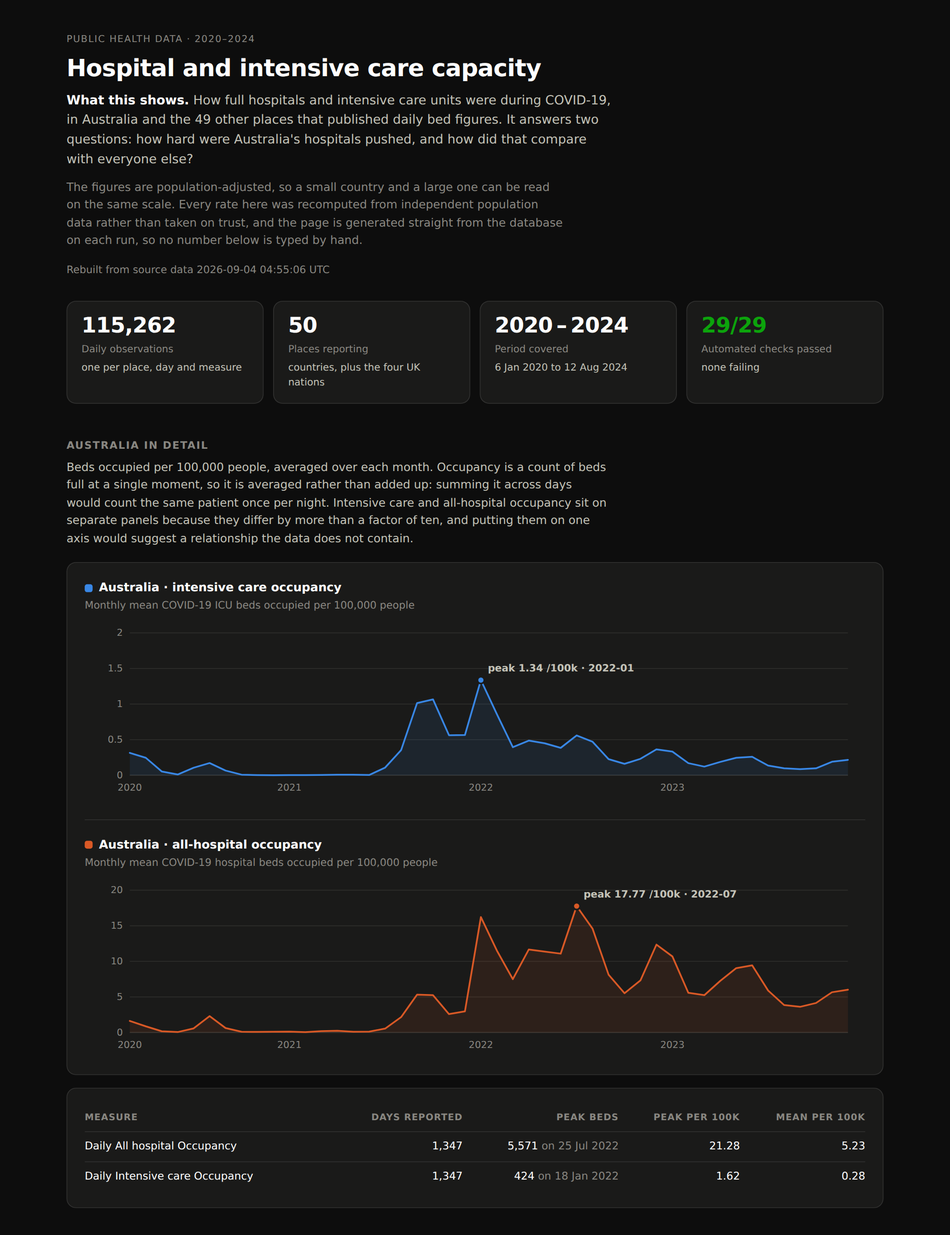
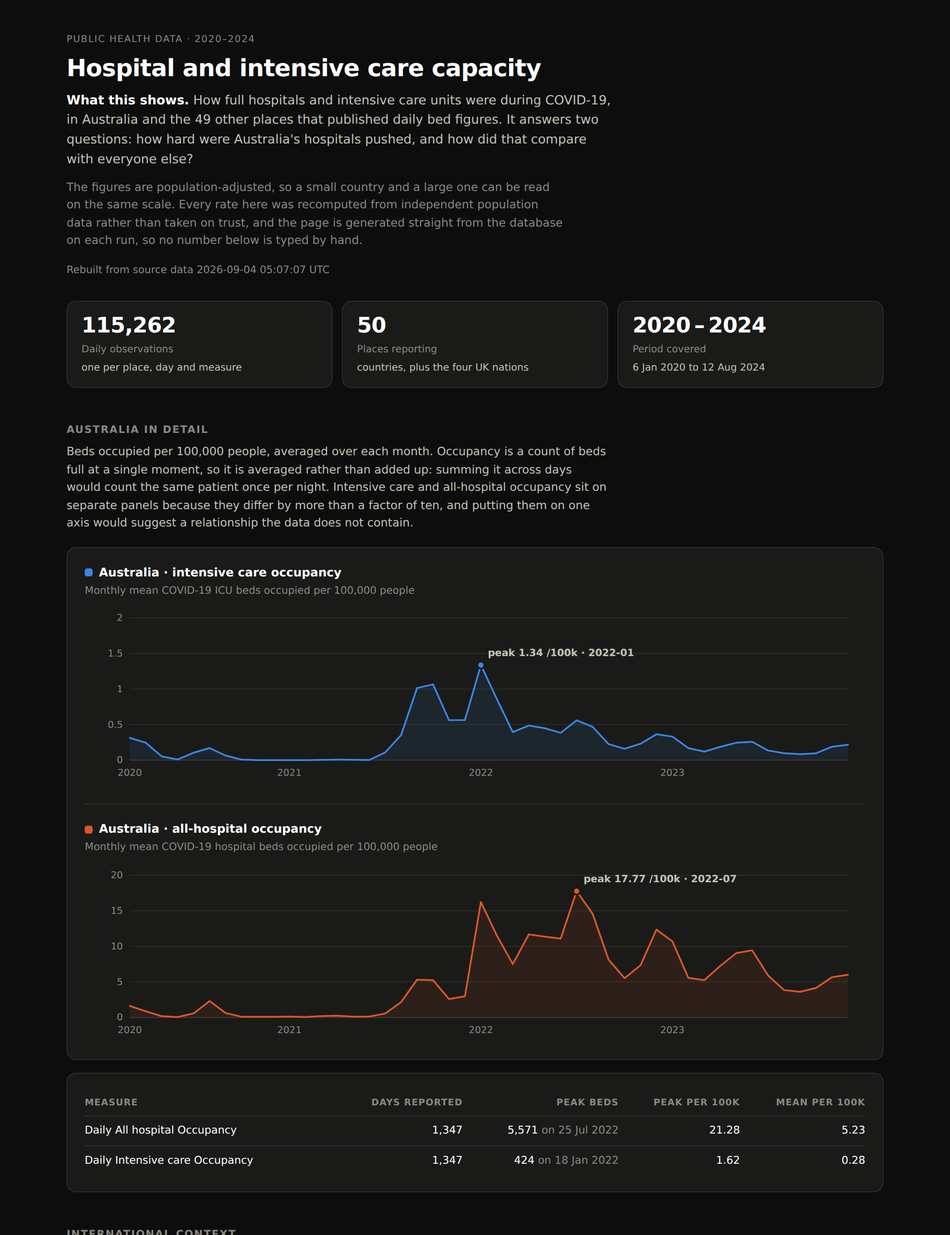
Trim the dashboard to the analysis
Removed the "How this was built" section and the checks-passed stat tile. The
page now runs: what this shows, Australia in detail, international context,
checking the numbers. It reads as an analysis rather than a build report.

Nothing was lost, only relocated. The warehouse layout is documented in
docs/architecture.md and docs/data_dictionary.md, and the 29 check results are
still written to meta_quality_results in the database on every run and still
gate publication. They were build detail on a page meant for a reader.

Also removed what the deletion orphaned: the model and check table builders,
their queries, the unused tile "good" variant, and the .pill.pass and
.tile-value.is-good rules. The meta description no longer advertises a quality
section the page does not have.

Replaced test_dashboard_surfaces_the_quality_result, which was passing on a
substring of the meta description and a CSS class name rather than on anything
a reader could see. The new test pins the page to exactly three sections and
fails if the removed ones return.

126 tests pass, lint and format clean, 29/29 data quality checks pass.

Claude-Session: https://claude.ai/code/session_014GgdsZjjVrn6aL7tembDrG

diff --git a/docs/index.html b/docs/index.html
@@ -3,7 +3,7 @@
 <head>
 <meta charset="utf-8">
 <meta name="viewport" content="width=device-width, initial-scale=1">
-<meta name="description" content="Star-schema warehouse of hospital and ICU capacity built from three public datasets, with reconciliation and quality tests.">
+<meta name="description" content="How full hospitals and intensive care units were during COVID-19, in Australia and 49 other reporting places.">
 <style>img{max-width:100%}[hidden]{display:none!important}</style>
 <title>Hospital Capacity Warehouse</title>
 <style>
@@ -112,7 +112,6 @@ h2 {
 .tile-value { font-size: 27px; font-weight: 640; letter-spacing: -0.02em; line-height: 1.1; }
 .tile-label { font-size: 12.5px; color: var(--text-muted); margin-top: 5px; }
 .tile-note { font-size: 12.5px; color: var(--text-secondary); margin-top: 3px; }
-.tile-value.is-good { color: var(--good); }
 
 .panel { margin: 0; }
 .panel + .panel { margin-top: 22px; padding-top: 20px; border-top: 1px solid var(--border); }
@@ -161,7 +160,6 @@ code, .mono { font-family: ui-monospace, SFMono-Regular, Menlo, Consolas, monosp
   font-size: 12px; font-weight: 600; padding: 2px 9px; border-radius: 999px;
   border: 1px solid var(--border); white-space: nowrap;
 }
-.pill.pass { color: var(--good); }
 .pill.warn { color: var(--warning); }
 .pill.fail { color: var(--critical); }
 .pill::before { content: ""; width: 7px; height: 7px; border-radius: 50%; background: currentColor; }
@@ -173,27 +171,7 @@ code, .mono { font-family: ui-monospace, SFMono-Regular, Menlo, Consolas, monosp
 .note b { color: var(--text-primary); }
 .note + .note { border-left-color: var(--axis); }
 
-.quality-summary { display: flex; flex-wrap: wrap; align-items: baseline; gap: 10px 14px; }
-.quality-note { color: var(--text-secondary); font-size: 14px; max-width: 68ch; }
 
-details { margin-top: 16px; border-top: 1px solid var(--border); padding-top: 12px; }
-details summary {
-  cursor: pointer; font-size: 13px; font-weight: 600; color: var(--text-secondary);
-  list-style: none; display: inline-flex; align-items: center; gap: 7px;
-  padding: 4px 2px; border-radius: 6px;
-}
-details summary::-webkit-details-marker { display: none; }
-details summary::before {
-  content: "▸"; font-size: 11px; color: var(--text-muted);
-  transition: transform 0.15s ease;
-}
-details[open] summary::before { transform: rotate(90deg); }
-details summary:hover { color: var(--text-primary); }
-details summary:focus-visible { outline: 2px solid var(--series-1); outline-offset: 2px; }
-details > .table-scroll { margin-top: 12px; }
-@media (prefers-reduced-motion: reduce) {
-  details summary::before { transition: none; }
-}
 
 footer { margin-top: 48px; padding-top: 20px; border-top: 1px solid var(--border); color: var(--text-muted); font-size: 13px; }
 footer a { color: var(--text-secondary); }
@@ -226,11 +204,11 @@ a { color: var(--series-1); }
     straight from the database on each run, so no number below is typed by hand.
   </p>
   <p class="masthead-meta">
-    <span>Rebuilt from source data 2026-09-04 04:56:04 UTC</span>
+    <span>Rebuilt from source data 2026-09-04 05:07:07 UTC</span>
   </p>
 </header>
 
-<div class="tiles"><div class="tile"><div class="tile-value">115,262</div><div class="tile-label">Daily observations</div><div class="tile-note">one per place, day and measure</div></div><div class="tile"><div class="tile-value">50</div><div class="tile-label">Places reporting</div><div class="tile-note">countries, plus the four UK nations</div></div><div class="tile"><div class="tile-value">2020 – 2024</div><div class="tile-label">Period covered</div><div class="tile-note">6 Jan 2020 to 12 Aug 2024</div></div><div class="tile"><div class="tile-value is-good">29/29</div><div class="tile-label">Automated checks passed</div><div class="tile-note">none failing</div></div></div>
+<div class="tiles"><div class="tile"><div class="tile-value">115,262</div><div class="tile-label">Daily observations</div><div class="tile-note">one per place, day and measure</div></div><div class="tile"><div class="tile-value">50</div><div class="tile-label">Places reporting</div><div class="tile-note">countries, plus the four UK nations</div></div><div class="tile"><div class="tile-value">2020 – 2024</div><div class="tile-label">Period covered</div><div class="tile-note">6 Jan 2020 to 12 Aug 2024</div></div></div>
 
 <h2>Australia in detail</h2>
 <p class="section-lede">
@@ -280,29 +258,6 @@ a { color: var(--series-1); }
     background check. Both cases are now automated tests, so a new mismatch
     would be caught rather than published.
   </p>
-</div>
-
-<h2>How this was built</h2>
-<p class="section-lede">
-  Three public datasets are downloaded, cleaned, and loaded into a small
-  database organised as a star schema: three reference tables describing dates,
-  places and measures, and two tables of measurements that join to them. It is
-  rebuilt from scratch on every run.
-</p>
-<div class="card"><div class="table-scroll"><table><thead><tr><th class="">Model</th><th class="">Layer</th><th class="num">Rows</th><th class="num">Columns</th></tr></thead><tbody><tr><td class=""><code>dim_date</code></td><td class="">Dimension</td><td class="num">1,828</td><td class="num">18</td></tr><tr><td class=""><code>dim_indicator</code></td><td class="">Dimension</td><td class="num">5</td><td class="num">11</td></tr><tr><td class=""><code>dim_location</code></td><td class="">Dimension</td><td class="num">254</td><td class="num">13</td></tr><tr><td class=""><code>fct_hospital_activity</code></td><td class="">Fact</td><td class="num">115,262</td><td class="num">14</td></tr><tr><td class=""><code>fct_population_annual</code></td><td class="">Fact</td><td class="num">13,945</td><td class="num">5</td></tr><tr><td class=""><code>mart_location_coverage</code></td><td class="">Reporting mart</td><td class="num">139</td><td class="num">18</td></tr><tr><td class=""><code>mart_monthly_activity</code></td><td class="">Reporting mart</td><td class="num">5,191</td><td class="num">27</td></tr><tr><td class=""><code>mart_peak_pressure</code></td><td class="">Reporting mart</td><td class="num">139</td><td class="num">23</td></tr><tr><td class=""><code>mart_rate_reconciliation</code></td><td class="">Reporting mart</td><td class="num">127</td><td class="num">18</td></tr></tbody></table></div></div>
-<div class="card">
-  <div class="quality-summary">
-    <span class="pill pass">29 of 29 checks passed</span>
-    <span class="quality-note">
-      Covering unique keys, valid joins between tables, permitted values,
-      plausible measurements, and the population cross-check above. A failure
-      stops the run before this page is refreshed.
-    </span>
-  </div>
-  <details>
-    <summary>See all 29 checks</summary>
-    <div class="table-scroll"><table><thead><tr><th class="">Test</th><th class="">Model</th><th class="">Type</th><th class="">Severity</th><th class="">Result</th></tr></thead><tbody><tr><td class=""><code>activity_values_are_not_negative</code></td><td class=""><code class="trunc">fct_hospital_activity</code></td><td class="">expression</td><td class="">error</td><td class=""><span class="pill pass">pass</span></td></tr><tr><td class=""><code>coverage_grades_are_known</code></td><td class=""><code class="trunc">mart_location_coverage</code></td><td class="">accepted_values</td><td class="">error</td><td class=""><span class="pill pass">pass</span></td></tr><tr><td class=""><code>derived_rate_reconciles_with_publisher</code></td><td class=""><code class="trunc">-</code></td><td class="">sql</td><td class="">error</td><td class=""><span class="pill pass">pass</span></td></tr><tr><td class=""><code>dim_date_full_date_not_null</code></td><td class=""><code class="trunc">dim_date</code></td><td class="">not_null</td><td class="">error</td><td class=""><span class="pill pass">pass</span></td></tr><tr><td class=""><code>dim_date_is_gapless</code></td><td class=""><code class="trunc">-</code></td><td class="">sql</td><td class="">error</td><td class=""><span class="pill pass">pass</span></td></tr><tr><td class=""><code>dim_date_key_is_unique</code></td><td class=""><code class="trunc">dim_date</code></td><td class="">unique</td><td class="">error</td><td class=""><span class="pill pass">pass</span></td></tr><tr><td class=""><code>dim_indicator_care_settings_are_known</code></td><td class=""><code class="trunc">dim_indicator</code></td><td class="">accepted_values</td><td class="">error</td><td class=""><span class="pill pass">pass</span></td></tr><tr><td class=""><code>dim_indicator_code_is_unique</code></td><td class=""><code class="trunc">dim_indicator</code></td><td class="">unique</td><td class="">error</td><td class=""><span class="pill pass">pass</span></td></tr><tr><td class=""><code>dim_indicator_key_is_unique</code></td><td class=""><code class="trunc">dim_indicator</code></td><td class="">unique</td><td class="">error</td><td class=""><span class="pill pass">pass</span></td></tr><tr><td class=""><code>dim_indicator_semantics_are_known</code></td><td class=""><code class="trunc">dim_indicator</code></td><td class="">accepted_values</td><td class="">error</td><td class=""><span class="pill pass">pass</span></td></tr><tr><td class=""><code>dim_location_key_is_unique</code></td><td class=""><code class="trunc">dim_location</code></td><td class="">unique</td><td class="">error</td><td class=""><span class="pill pass">pass</span></td></tr><tr><td class=""><code>dim_location_natural_key_is_unique</code></td><td class=""><code class="trunc">dim_location</code></td><td class="">unique</td><td class="">error</td><td class=""><span class="pill pass">pass</span></td></tr><tr><td class=""><code>dim_location_types_are_known</code></td><td class=""><code class="trunc">dim_location</code></td><td class="">accepted_values</td><td class="">error</td><td class=""><span class="pill pass">pass</span></td></tr><tr><td class=""><code>dimensions_are_populated</code></td><td class=""><code class="trunc">dim_location</code></td><td class="">row_count</td><td class="">error</td><td class=""><span class="pill pass">pass</span></td></tr><tr><td class=""><code>event_dates_are_plausible</code></td><td class=""><code class="trunc">fct_hospital_activity</code></td><td class="">expression</td><td class="">error</td><td class=""><span class="pill pass">pass</span></td></tr><tr><td class=""><code>every_source_was_ingested_this_run</code></td><td class=""><code class="trunc">-</code></td><td class="">sql</td><td class="">warn</td><td class=""><span class="pill pass">pass</span></td></tr><tr><td class=""><code>fact_volume_is_plausible</code></td><td class=""><code class="trunc">fct_hospital_activity</code></td><td class="">row_count</td><td class="">error</td><td class=""><span class="pill pass">pass</span></td></tr><tr><td class=""><code>fct_activity_date_key_resolves</code></td><td class=""><code class="trunc">fct_hospital_activity</code></td><td class="">relationships</td><td class="">error</td><td class=""><span class="pill pass">pass</span></td></tr><tr><td class=""><code>fct_activity_grain_is_unique</code></td><td class=""><code class="trunc">fct_hospital_activity</code></td><td class="">unique_combination</td><td class="">error</td><td class=""><span class="pill pass">pass</span></td></tr><tr><td class=""><code>fct_activity_has_no_unknown_members</code></td><td class=""><code class="trunc">fct_hospital_activity</code></td><td class="">expression</td><td class="">error</td><td class=""><span class="pill pass">pass</span></td></tr><tr><td class=""><code>fct_activity_indicator_key_resolves</code></td><td class=""><code class="trunc">fct_hospital_activity</code></td><td class="">relationships</td><td class="">error</td><td class=""><span class="pill pass">pass</span></td></tr><tr><td class=""><code>fct_activity_location_key_resolves</code></td><td class=""><code class="trunc">fct_hospital_activity</code></td><td class="">relationships</td><td class="">error</td><td class=""><span class="pill pass">pass</span></td></tr><tr><td class=""><code>fct_population_grain_is_unique</code></td><td class=""><code class="trunc">fct_population_annual</code></td><td class="">unique_combination</td><td class="">error</td><td class=""><span class="pill pass">pass</span></td></tr><tr><td class=""><code>fct_population_location_key_resolves</code></td><td class=""><code class="trunc">fct_population_annual</code></td><td class="">relationships</td><td class="">error</td><td class=""><span class="pill pass">pass</span></td></tr><tr><td class=""><code>no_new_denominator_mismatches</code></td><td class=""><code class="trunc">-</code></td><td class="">sql</td><td class="">warn</td><td class=""><span class="pill pass">pass</span></td></tr><tr><td class=""><code>per_100k_is_consistent_with_per_million</code></td><td class=""><code class="trunc">fct_hospital_activity</code></td><td class="">expression</td><td class="">error</td><td class=""><span class="pill pass">pass</span></td></tr><tr><td class=""><code>population_is_positive</code></td><td class=""><code class="trunc">fct_population_annual</code></td><td class="">expression</td><td class="">error</td><td class=""><span class="pill pass">pass</span></td></tr><tr><td class=""><code>reporting_locations_are_all_classified</code></td><td class=""><code class="trunc">dim_location</code></td><td class="">expression</td><td class="">error</td><td class=""><span class="pill pass">pass</span></td></tr><tr><td class=""><code>series_has_not_regressed</code></td><td class=""><code class="trunc">-</code></td><td class="">sql</td><td class="">error</td><td class=""><span class="pill pass">pass</span></td></tr></tbody></table></div>
-  </details>
 </div>
 
 <footer>

diff --git a/pipelines/dashboard.py b/pipelines/dashboard.py
@@ -42,9 +42,6 @@ class DashboardData:
     peak_ranking: list[dict]
     variance_bands: list[dict]
     denominator_notes: list[dict]
-    quality: list[dict]
-    quality_summary: dict
-    model_rows: list[dict]
 
 
 def _rows(connection, sql: str, params: list | None = None) -> list[dict]:
@@ -175,50 +172,6 @@ def collect(layout: Paths | None = None, focus: str = DEFAULT_FOCUS) -> Dashboar
             """,
         )
 
-        quality: list[dict] = []
-        quality_summary: dict = {}
-        has_quality = _one(
-            connection,
-            "SELECT count(*) AS n FROM duckdb_tables() WHERE table_name = 'meta_quality_results'",
-        ).get("n", 0)
-        if has_quality:
-            quality = _rows(
-                connection,
-                """
-                SELECT test_name, model, test_type, severity, status, failing_rows, description
-                FROM meta_quality_results
-                WHERE run_id = (SELECT run_id FROM meta_quality_results
-                                ORDER BY executed_at DESC, rowid DESC LIMIT 1)
-                ORDER BY CASE status WHEN 'fail' THEN 0 WHEN 'error' THEN 1 ELSE 2 END, test_name
-                """,
-            )
-            quality_summary = _one(
-                connection,
-                """
-                SELECT count(*) AS total,
-                       sum(CASE WHEN status = 'pass' THEN 1 ELSE 0 END) AS passed,
-                       sum(CASE WHEN status <> 'pass' AND severity = 'error' THEN 1 ELSE 0 END) AS blocking,
-                       sum(CASE WHEN status <> 'pass' AND severity = 'warn' THEN 1 ELSE 0 END) AS warnings,
-                       max(executed_at) AS executed_at
-                FROM meta_quality_results
-                WHERE run_id = (SELECT run_id FROM meta_quality_results
-                                ORDER BY executed_at DESC, rowid DESC LIMIT 1)
-                """,
-            )
-
-        model_rows = _rows(
-            connection,
-            """
-            SELECT table_name AS model, estimated_size AS rows_estimate, column_count
-            FROM duckdb_tables()
-            WHERE table_name NOT LIKE 'meta_%'
-            ORDER BY CASE
-                        WHEN table_name LIKE 'dim_%'  THEN 1
-                        WHEN table_name LIKE 'fct_%'  THEN 2
-                        ELSE 3 END, table_name
-            """,
-        )
-
     return DashboardData(
         focus_code=focus,
         focus_name=focus_name,
@@ -228,9 +181,6 @@ def collect(layout: Paths | None = None, focus: str = DEFAULT_FOCUS) -> Dashboar
         peak_ranking=peak_ranking,
         variance_bands=variance_bands,
         denominator_notes=denominator_notes,
-        quality=quality,
-        quality_summary=quality_summary,
-        model_rows=model_rows,
     )
 
 
@@ -344,7 +294,6 @@ h2 {
 .tile-value { font-size: 27px; font-weight: 640; letter-spacing: -0.02em; line-height: 1.1; }
 .tile-label { font-size: 12.5px; color: var(--text-muted); margin-top: 5px; }
 .tile-note { font-size: 12.5px; color: var(--text-secondary); margin-top: 3px; }
-.tile-value.is-good { color: var(--good); }
 
 .panel { margin: 0; }
 .panel + .panel { margin-top: 22px; padding-top: 20px; border-top: 1px solid var(--border); }
@@ -393,7 +342,6 @@ code, .mono { font-family: ui-monospace, SFMono-Regular, Menlo, Consolas, monosp
   font-size: 12px; font-weight: 600; padding: 2px 9px; border-radius: 999px;
   border: 1px solid var(--border); white-space: nowrap;
 }
-.pill.pass { color: var(--good); }
 .pill.warn { color: var(--warning); }
 .pill.fail { color: var(--critical); }
 .pill::before { content: ""; width: 7px; height: 7px; border-radius: 50%; background: currentColor; }
@@ -405,27 +353,7 @@ code, .mono { font-family: ui-monospace, SFMono-Regular, Menlo, Consolas, monosp
 .note b { color: var(--text-primary); }
 .note + .note { border-left-color: var(--axis); }
 
-.quality-summary { display: flex; flex-wrap: wrap; align-items: baseline; gap: 10px 14px; }
-.quality-note { color: var(--text-secondary); font-size: 14px; max-width: 68ch; }
 
-details { margin-top: 16px; border-top: 1px solid var(--border); padding-top: 12px; }
-details summary {
-  cursor: pointer; font-size: 13px; font-weight: 600; color: var(--text-secondary);
-  list-style: none; display: inline-flex; align-items: center; gap: 7px;
-  padding: 4px 2px; border-radius: 6px;
-}
-details summary::-webkit-details-marker { display: none; }
-details summary::before {
-  content: "▸"; font-size: 11px; color: var(--text-muted);
-  transition: transform 0.15s ease;
-}
-details[open] summary::before { transform: rotate(90deg); }
-details summary:hover { color: var(--text-primary); }
-details summary:focus-visible { outline: 2px solid var(--series-1); outline-offset: 2px; }
-details > .table-scroll { margin-top: 12px; }
-@media (prefers-reduced-motion: reduce) {
-  details summary::before { transition: none; }
-}
 
 footer { margin-top: 48px; padding-top: 20px; border-top: 1px solid var(--border); color: var(--text-muted); font-size: 13px; }
 footer a { color: var(--text-secondary); }
@@ -526,9 +454,9 @@ def _date(value) -> str:
     return value.strftime("%-d %b %Y") if hasattr(value, "strftime") else str(value)[:10]
 
 
-def _tile(value: str, label: str, note: str = "", good: bool = False) -> str:
+def _tile(value: str, label: str, note: str = "") -> str:
     return (
-        f'<div class="tile"><div class="tile-value{" is-good" if good else ""}">{value}</div>'
+        f'<div class="tile"><div class="tile-value">{value}</div>'
         f'<div class="tile-label">{esc(label)}</div>'
         + (f'<div class="tile-note">{esc(note)}</div>' if note else "")
         + "</div>"
@@ -554,20 +482,9 @@ def _table(headers: list[tuple[str, bool]], rows: list[list[str]]) -> str:
 def render_body(data: DashboardData) -> str:
     """Assemble the page content (title + style + markup), without a document shell."""
     s = data.stats
-    q = data.quality_summary or {}
     focus = esc(data.focus_name)
 
     # -- Stat tiles ---------------------------------------------------------
-    quality_tile = (
-        _tile(
-            f"{_n(q.get('passed'))}/{_n(q.get('total'))}",
-            "Automated checks passed",
-            "none failing" if not q.get("blocking") else f"{_n(q.get('blocking'))} failing",
-            good=not q.get("blocking"),
-        )
-        if q
-        else ""
-    )
     tiles = (
         _tile(_n(s.get("fact_rows")), "Daily observations", "one per place, day and measure")
         + _tile(_n(s.get("locations")), "Places reporting", "countries, plus the four UK nations")
@@ -576,7 +493,6 @@ def render_body(data: DashboardData) -> str:
             "Period covered",
             f"{_date(s.get('first_date'))} to {_date(s.get('last_date'))}",
         )
-        + quality_tile
     )
 
     # -- Focus country small multiples --------------------------------------
@@ -680,48 +596,6 @@ def render_body(data: DashboardData) -> str:
     )
 
     # -- Lineage and quality ------------------------------------------------
-    quality_table = _table(
-        [
-            ("Test", False),
-            ("Model", False),
-            ("Type", False),
-            ("Severity", False),
-            ("Result", False),
-        ],
-        [
-            [
-                f"<code>{esc(row['test_name'])}</code>",
-                f'<code class="trunc">{esc(row["model"])}</code>',
-                esc(row["test_type"]),
-                esc(row["severity"]),
-                (
-                    '<span class="pill pass">pass</span>'
-                    if row["status"] == "pass"
-                    else f'<span class="pill {"warn" if row["severity"] == "warn" else "fail"}">'
-                    f"{esc(row['status'])} · {_n(row['failing_rows'])} rows</span>"
-                ),
-            ]
-            for row in data.quality
-        ],
-    )
-
-    model_table = _table(
-        [("Model", False), ("Layer", False), ("Rows", True), ("Columns", True)],
-        [
-            [
-                f"<code>{esc(row['model'])}</code>",
-                "Dimension"
-                if row["model"].startswith("dim_")
-                else "Fact"
-                if row["model"].startswith("fct_")
-                else "Reporting mart",
-                _n(row["rows_estimate"]),
-                _n(row["column_count"]),
-            ]
-            for row in data.model_rows
-        ],
-    )
-
     built = str(s.get("built_at") or "")[:19].replace("T", " ")
 
     return f"""<title>{PAGE_TITLE}</title>
@@ -800,29 +674,6 @@ def render_body(data: DashboardData) -> str:
   </p>
 </div>
 
-<h2>How this was built</h2>
-<p class="section-lede">
-  Three public datasets are downloaded, cleaned, and loaded into a small
-  database organised as a star schema: three reference tables describing dates,
-  places and measures, and two tables of measurements that join to them. It is
-  rebuilt from scratch on every run.
-</p>
-<div class="card">{model_table}</div>
-<div class="card">
-  <div class="quality-summary">
-    <span class="pill pass">{_n(q.get("passed"))} of {_n(q.get("total"))} checks passed</span>
-    <span class="quality-note">
-      Covering unique keys, valid joins between tables, permitted values,
-      plausible measurements, and the population cross-check above. A failure
-      stops the run before this page is refreshed.
-    </span>
-  </div>
-  <details>
-    <summary>See all {_n(q.get("total"))} checks</summary>
-    {quality_table}
-  </details>
-</div>
-
 <footer>
   <p>
     <b>Data.</b> COVID-19 hospital and intensive care activity compiled by
@@ -854,8 +705,8 @@ def render_page(data: DashboardData) -> str:
         "<!doctype html>\n"
         '<html lang="en">\n<head>\n<meta charset="utf-8">\n'
         '<meta name="viewport" content="width=device-width, initial-scale=1">\n'
-        '<meta name="description" content="Star-schema warehouse of hospital and ICU '
-        'capacity built from three public datasets, with reconciliation and quality tests.">\n'
+        '<meta name="description" content="How full hospitals and intensive care '
+        'units were during COVID-19, in Australia and 49 other reporting places.">\n'
         "<style>img{max-width:100%}[hidden]{display:none!important}</style>\n"
         f"{head_styles}</style>\n</head>\n<body>\n{markup}\n</body>\n</html>\n"
     )

diff --git a/tests/test_end_to_end.py b/tests/test_end_to_end.py
@@ -105,9 +105,17 @@ def test_dashboard_uses_no_em_dashes(rendered):
         assert form not in rendered, f"em dash ({form}) in the published page"
 
 
-def test_dashboard_surfaces_the_quality_result(rendered):
-    assert "quality" in rendered.lower()
-    assert "pass" in rendered.lower()
+def test_dashboard_has_exactly_the_intended_sections(rendered):
+    """The page is an analysis, not a build report. The warehouse internals and
+    the check results live in the repository and the database, deliberately not
+    here, so this pins the section list rather than letting it creep back."""
+    headings = re.findall(r"<h2>(.*?)</h2>", rendered)
+    assert len(headings) == 3, headings
+    assert "in detail" in headings[0]
+    assert headings[1] == "International context"
+    assert headings[2] == "Checking the numbers"
+    for gone in ("How this was built", "checks passed", "Data quality tests"):
+        assert gone not in rendered, f"{gone!r} is back on the page"
 
 
 def test_dashboard_can_lead_with_a_different_country(build_runs, pipeline_modules, tmp_path):

diff --git a/docs/data_dictionary.md b/docs/data_dictionary.md
@@ -3,7 +3,7 @@
 <!-- Generated by scripts/build_data_dictionary.py - do not edit by hand. -->
 <!-- Prose lives in config/model_docs.yml; the schema comes from the warehouse. -->
 
-Generated 2026-09-04 04:56 UTC from `health_capacity.duckdb`.
+Generated 2026-09-04 05:07 UTC from `health_capacity.duckdb`.
 
 Column descriptions are required for every dimension and fact column; the
 generator fails the build if one is missing. Reporting marts inherit most of
@@ -349,7 +349,7 @@ Ingestion provenance - URL, SHA-256 checksum, byte count, timestamp and run id. 
 
 - **Layer:** Metadata
 - **Grain:** One row per source per ingestion run.
-- **Rows:** 21
+- **Rows:** 24
 
 | Column | Type |
 | --- | --- |
@@ -372,7 +372,7 @@ Every quality result ever recorded, so the quality history is queryable alongsid
 
 - **Layer:** Metadata
 - **Grain:** One row per assertion per quality run.
-- **Rows:** 203
+- **Rows:** 232
 
 | Column | Type |
 | --- | --- |
